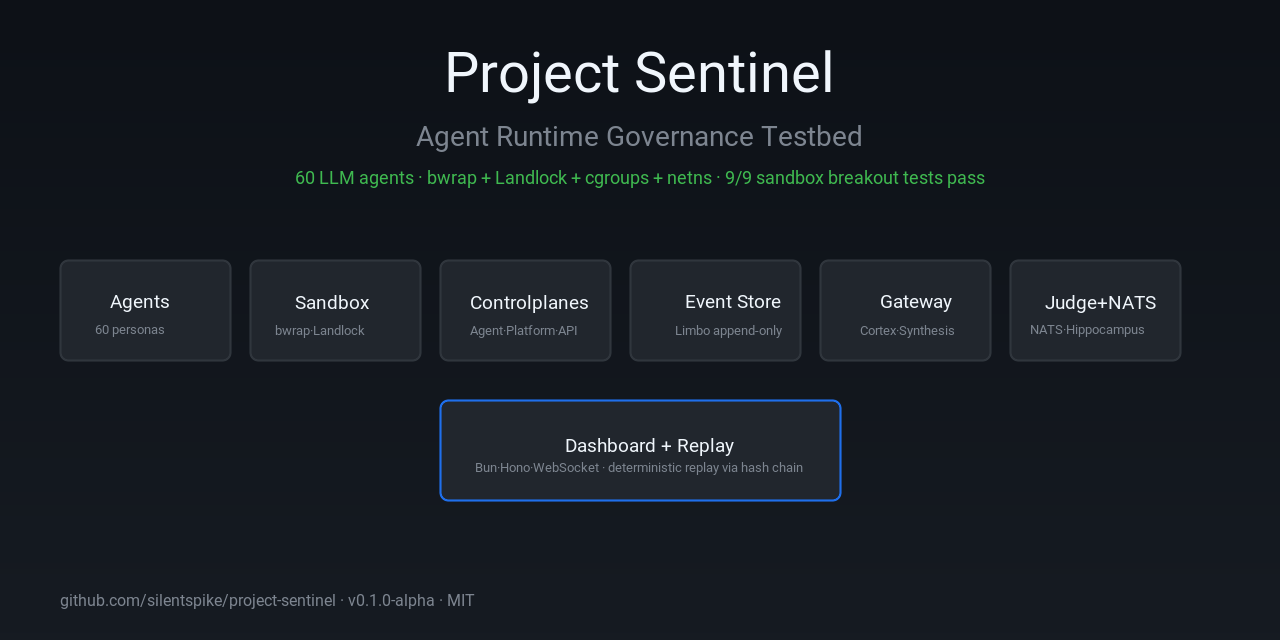
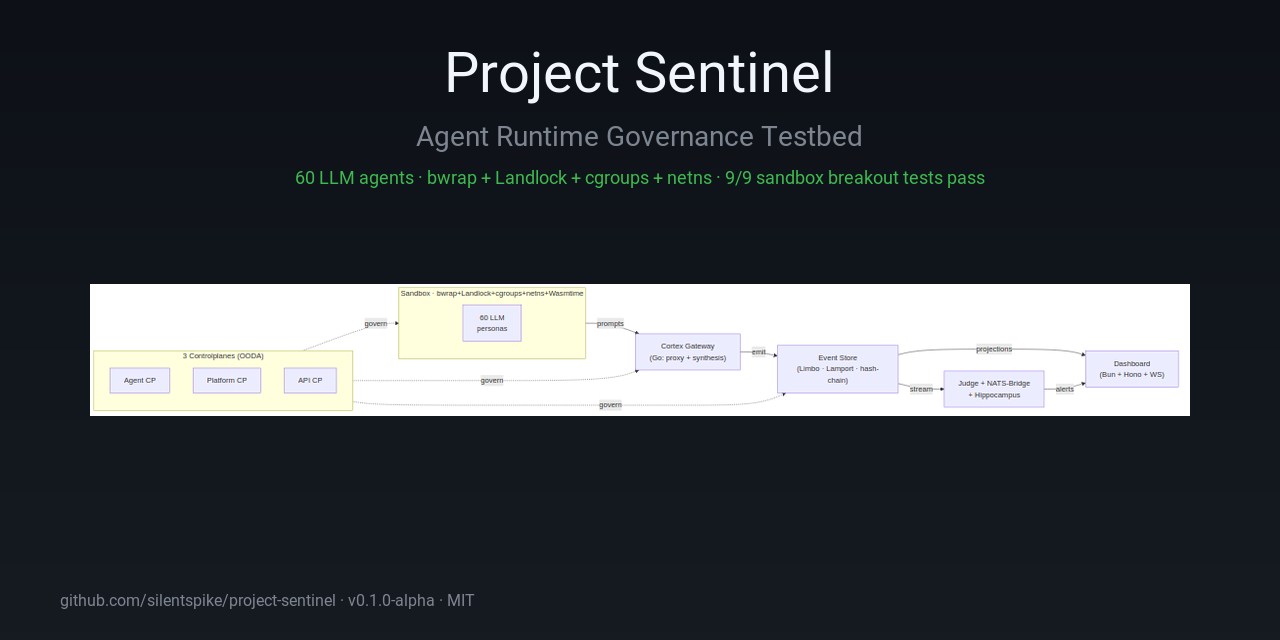
docs: v5 plan-fidelity follow-up (F6/F7/F8/F10)
Plan v5 self-audit (v5-T7 final pass) surfaced four spots where the
implementation diverged from explicit plan-text wording even though all
ACs already passed. This commit aligns the implementation with the plan-
text 1:1.

F6 — ASCII plain-text architecture in `## Architecture Details` now reads
the full string "Self-recognition pattern detector" instead of the
truncated "Self-recognition" (10-char column was widened to 32 chars on
the right side; left column proportionally widened to keep the diagram
visually balanced).

F7 — `## What It Is` now opens with the platform layer (5 background
services + per-agent sandbox stack) BEFORE the workload layer (60 LLM
personas). The plan asked for "platform-fokussiert: 5 background services
+ sandbox-stack als Hauptframing"; the previous order put personas first
which read as agent-first. New text explicitly names the sandbox stack
right under the service list and points at the security test report.

F8 — Workshop doc Section 4 ("15-30 min Sandbox Test") now lists each of
the nine breakout scenarios in its own table row (FS-001..004,
RES-001..003, NS-001..002), with the defending layer recorded per row,
instead of the prior 3-category-grouped table. FS-003's documented
Landlock execute-gap + bwrap mitigation is highlighted as a callout
under the table. The plan asked for "jeden der 9 Tests einzeln erklären".

F10 — docs/images/opengraph-preview.png is re-rendered: the previous
[…]

Changed region(s): [[0.0625, 0.4062, 0.9375, 0.6562], [0.375, 0.6875, 0.625, 0.75], [0.3438, 0.75, 0.375, 0.7812]]

diff --git a/README.md b/README.md
@@ -17,26 +17,33 @@ context*; the platform underneath is the work.
 
 ## What It Is
 
-A testbed environment combining two agent layers:
+A platform that runs sandboxed agent workloads end-to-end. Two layers:
 
-**60 LLM-persona agents** — autonomous entities with distinct personality
-profiles, role assignments, and bio-driven state (hunger, caffeine, fatigue,
-social need). Staffed as **51 on a 3-shift rotation (17 per shift)** + **9
-always-on duty staff**. Approximately 26 agents are active at any given
-moment. See [Research Context](#research-context) for the personality model
-and role taxonomy.
+**Platform layer — 5 background services** (Rust + Go) that own the runtime:
 
-**5 background service agents** — Rust/Go services running the platform itself:
-
-- `sentinel-daemon` — ECS world, tick loop, persistence
+- `sentinel-daemon` — ECS world, tick loop, persistence, agent runtime
 - `cortex-gateway` — LLM proxy, synthesis engine, controlplane
 - `sentinel-judge` — quality + drift monitoring, NATS streaming
 - `sentinel-nightrun` — nightly batch consolidation, deterministic replay
 - `sentinel-nats-bridge` — eBPF metrics dual-publish
 
-Both layers run under sandbox isolation (bwrap + Landlock + cgroups v2 +
-netns). The simulated office is the evaluation context for stress-testing
-runtime hardening primitives, agent control loops, and boundary detection.
+Each agent process runs inside its own **sandbox stack** (bwrap user
+namespaces + Landlock LSM + cgroups v2 + netns + nftables + Wasmtime tool
+runtime). The sandbox enforcement is the load-bearing primitive — see
+[security test report](docs/security-test-report.md) (9/9 breakout tests
+pass on a privileged host).
+
+**Workload layer — 60 LLM-persona agents** that exercise the platform:
+autonomous entities with distinct personality profiles, role assignments,
+and bio-driven state (hunger, caffeine, fatigue, social need). Staffed as
+**51 on a 3-shift rotation (17 per shift)** + **9 always-on duty staff**.
+Approximately 26 agents are active at any given moment. See
+[Research Context](#research-context) for the personality model and role
+taxonomy.
+
+The simulated office is the evaluation context for stress-testing runtime
+hardening primitives, agent control loops, and boundary detection. The
+platform underneath is the work.
 
 See the [TOGAF Architecture Guide](docs/architecture/togaf-architecture-guide.html)
 (v22.1) for cluster-level detail.
@@ -285,16 +292,16 @@ useful for terminal-only viewers and screen-readers. Same data flow, lower
 fidelity:
 
 ```
-Deterministic (ECS)            Probabilistic (LLM)
-┌───────────────────┐          ┌────────────────────┐
-│ bevy_ecs World    │          │ Cortex Gateway     │
-│ Bio / Physics     │ ───────> │ 7-step pipeline    │
-│ 60 agent slots    │ <─────── │ Synthesis engine   │
-│ Event Store       │          │ Self-recognition   │
-└───────────────────┘          └────────────────────┘
-         │                              │
-         └────── Event Sourcing ────────┘
-            (sentinel-limbo, append-only)
+Deterministic (ECS)              Probabilistic (LLM)
+┌─────────────────────┐          ┌──────────────────────────────────┐
+│ bevy_ecs World      │          │ Cortex Gateway                   │
+│ Bio / Physics       │ ───────> │ 7-step pipeline                  │
+│ 60 agent slots      │ <─────── │ Synthesis engine                 │
+│ Event Store         │          │ Self-recognition pattern detector│
+└─────────────────────┘          └──────────────────────────────────┘
+          │                                   │
+          └─────────── Event Sourcing ────────┘
+                 (sentinel-limbo, append-only)
 ```
 
 For full architectural depth (clusters, controlplane internals, deviation

diff --git a/docs/workshop-agent-runtime-boundaries.md b/docs/workshop-agent-runtime-boundaries.md
@@ -105,19 +105,32 @@ for the sandbox claims; the
 [security test report](security-test-report.md) records every scenario
 with the defending layer.
 
-Walk the participants through each category:
+Walk the participants through each test individually. The full table:
 
-| Category | Scenarios | What is being defended |
-|----------|-----------|------------------------|
-| Filesystem-Breakout | FS-001 … FS-004 | bwrap mount namespace + Landlock LSM |
-| Resource-Exhaustion | RES-001 … RES-003 | cgroups v2 (memory, pids, cpu controllers) |
-| Namespace-Isolation | NS-001, NS-002 | bwrap user-namespace (uid/gid mapping) |
+| ID | Scenario | Expected | Defending layer |
+|----|----------|----------|-----------------|
+| FS-001 | Write to `/etc/passwd` | `ENOENT` / `EACCES` | bwrap mount namespace (path not bound) + Landlock LSM |
+| FS-002 | Read `/home/other-agent/` | `ENOENT` | bwrap mount namespace (other-agent home not bound for this sandbox) |
+| FS-003 | Write + execute a binary in `/tmp` | `EACCES` (in production) | bwrap mount namespace — production config does **not** bind `/usr`, so no executable is reachable. Test config (with `/usr` bound) lets exec succeed; this is FS-003's documented Landlock-execute-gap. |
+| FS-004 | Symlink `/tmp/link -> /etc/shadow` | `ENOENT` / `EACCES` | bwrap mount namespace (symlink target not in namespace) + Landlock LSM |
+| RES-001 | Memory bomb (1 MB chunks until OOM) | OOM-kill `SIGKILL` (exit 137) | cgroups v2 `memory.max=256M` |
+| RES-002 | Fork bomb (spawn 1000 children) | `EAGAIN` after ~50 forks | cgroups v2 `pids.max=50` |
+| RES-003 | CPU burn (10s tight loop) | CPU throttling (`nr_throttled > 0`) | cgroups v2 `cpu.max=50000/100000` (50% cap) |
+| NS-001 | Count PIDs visible in `/proc` | <= 5 (only sandbox-internal) | bwrap PID namespace + `--proc /proc` |
+| NS-002 | Read hostname | `sentinel-{name}`, not host hostname | bwrap UTS namespace + `--hostname sentinel-{name}` |
 
-Highlight FS-003: Landlock vergibt `all_access` (incl. execute) for
-`write_paths` — in the production config `/usr` is **not** bound, so no
-executable is reachable; the bwrap mount namespace is the
-defense-in-depth layer. This is documented in the report and is **not** a
-silent gap.
+**Highlight FS-003** (the only documented gap, mitigated by defense-in-depth):
+Landlock grants `all_access` — including execute — on every `write_paths`
+entry. In the production sandbox config, `/usr` is **not** bound into the
+mount namespace, so no executable is reachable from `/tmp` regardless of
+Landlock's gap. The bwrap mount namespace is the defense-in-depth layer
+that closes it. This is recorded in the
+[security test report](security-test-report.md) under "Bekannte Gaps" and
+is **not** a silent issue.
+
+Beyond these nine, see the report's "Defense-in-Depth"-Diagramm for how
+the three layers (bwrap user-namespaces / Landlock LSM / cgroups v2)
+stack on each agent process at boot.
 
 ---
 
